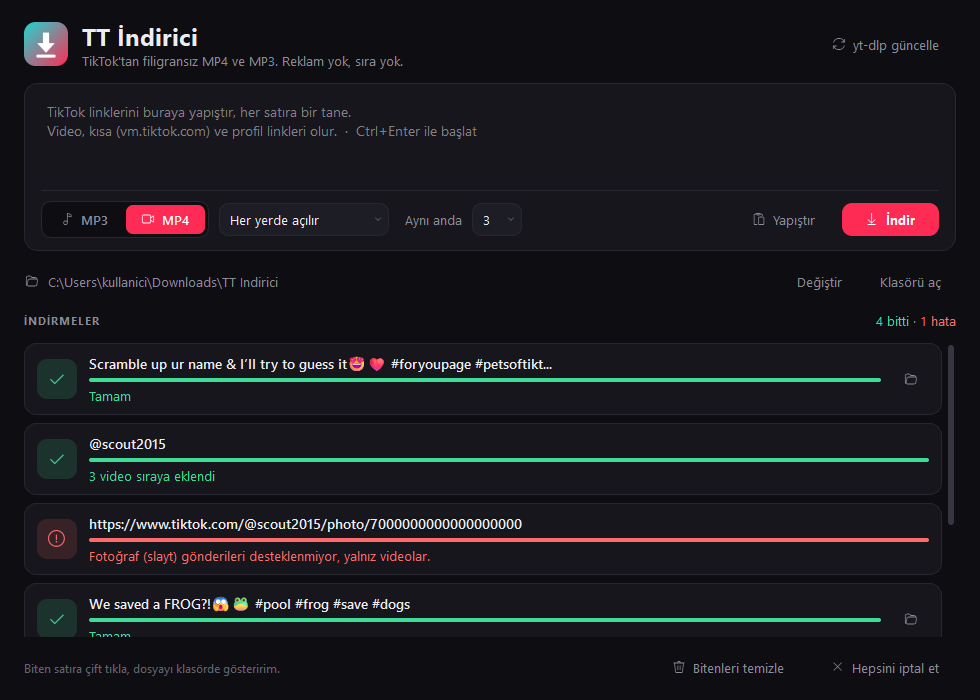
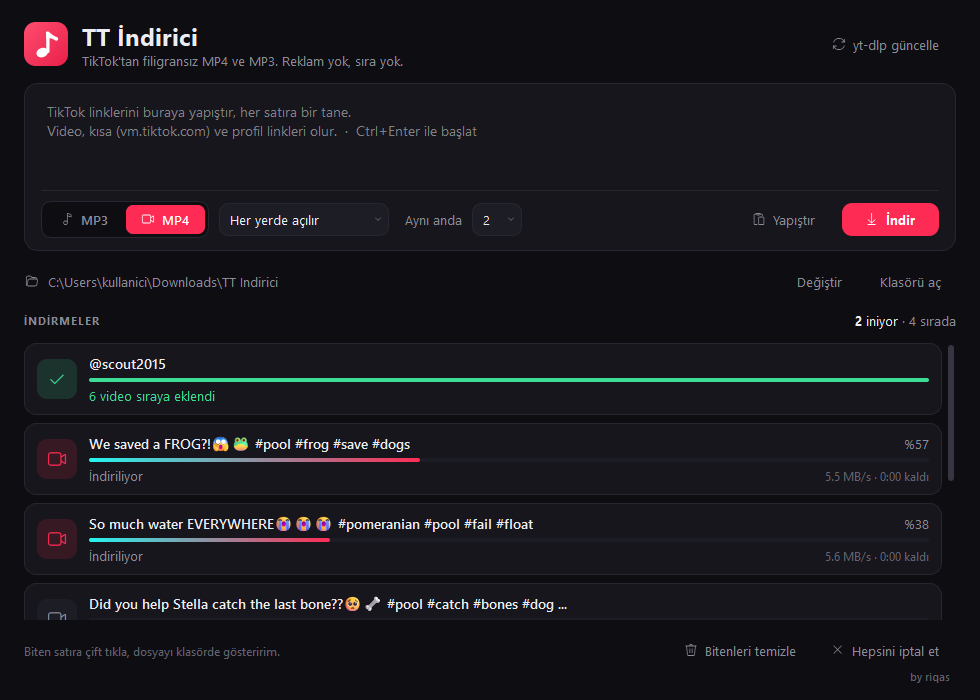
Yeni ikon, "by riqas", test turunda bulunan hataların düzeltmesi
- Logo: pembe zemin + beyaz nota
- Var olan dosya yeniden indirilmiyor (MP3'te üstüne yazıyordu), "Zaten var" doğru gösteriliyor
- İptal yarım dosya (.part, ara video, kapak) bırakmıyor; iptaller ayrı sayılıyor
- Sayaç "iniyor" ve "sırada"yı ayırıyor
- Embed/eski mobil linkler normal video linkine çevriliyor, aynı video tekilleştiriliyor
- TikTok dışı, etiket, müzik ve fotoğraf linkleri baştan nedeniyle reddediliyor
- Silinmiş video için yanıltıcı "IP engeli" mesajı düzeltildi
- Uygulama klasöründeki ffmpeg PATH'e bakmadan kullanılıyor

diff --git a/app.py b/app.py
@@ -9,15 +9,16 @@ import subprocess
 import sys
 import tempfile
 import threading
+import time
 import uuid
 from pathlib import Path
 
 from PyQt6.QtCore import (
-    QEasingCurve, QObject, QPropertyAnimation, QRectF, QRunnable, QSettings, Qt, QThreadPool, pyqtSignal,
+    QEasingCurve, QObject, QPointF, QPropertyAnimation, QRectF, QRunnable, QSettings, Qt, QThreadPool, pyqtSignal,
 )
 from PyQt6.QtGui import (
     QColor, QFont, QFontDatabase, QGuiApplication, QIcon, QKeySequence, QLinearGradient, QPainter,
-    QPainterPath, QPixmap, QShortcut,
+    QPainterPath, QPixmap, QShortcut, QTransform,
 )
 from PyQt6.QtWidgets import (
     QApplication, QButtonGroup, QComboBox, QFileDialog, QFrame, QHBoxLayout, QLabel, QMainWindow,
@@ -30,6 +31,7 @@ from yt_dlp.utils import DownloadCancelled
 
 APP_DIR = Path(__file__).resolve().parent
 DEFAULT_OUT = Path.home() / "Downloads" / "TT Indirici"
+LOCAL_FFMPEG = APP_DIR / "ffmpeg" / "bin" / "ffmpeg.exe"
 
 MP3_QUALITIES = ["320", "256", "192", "128"]
 # TikTok yüksek çözünürlüğü çoğu zaman yalnız H.265 veriyor; Windows'ta H.265 için ücretli codec eklentisi gerekebiliyor
@@ -58,7 +60,8 @@ FRIENDLY_ERRORS = (
     ("secondary user ID", "Profil açılamadı. Hesap gizli olabilir ya da TikTok erişimi kısıtladı."),
     ("private", "Bu gönderi gizli."),
     ("Video not available", "Video kaldırılmış ya da bölgende açık değil."),
-    ("status code 10204", "Video kaldırılmış ya da bölgende açık değil."),
+    # TikTok'un 10204 kodu: yt-dlp "IP engeli" diyor ama silinmiş/olmayan gönderide de bu dönüyor
+    ("IP address is blocked", "Video bulunamadı: silinmiş ya da bölgende kapalı."),
     # silinmiş videonun kısa linki ana sayfaya yönleniyor
     ("Unsupported URL: https://www.tiktok.com/?", "Link bir videoya gitmiyor, video silinmiş olabilir."),
     ("Unsupported URL", "Bu link tanınmadı. TikTok video ya da profil linki yapıştır."),
@@ -126,6 +129,9 @@ def build_opts(fmt, quality, out_dir):
         "noprogress": True,
         **NET_OPTS,
     }
+    # başlatıcının indirdiği ffmpeg: PATH'e güvenme (app.py doğrudan açılırsa PATH'te olmaz)
+    if LOCAL_FFMPEG.exists():
+        opts["ffmpeg_location"] = str(LOCAL_FFMPEG.parent)
     if fmt == "mp3":
         opts.update({
             # "audio" biçimi videodaki ses değil, şarkının ayrı kaydı (uzunluğu farklı olabiliyor):
@@ -166,7 +172,20 @@ class DownloadJob(QRunnable):
         self.fmt, self.quality, self.out_dir = fmt, quality, out_dir
         self.cancel, self.s = cancel, signals
         self.final_path = ""
+        self.video_id = ""
         self.phase = 0
+
+    def _remove_leftovers(self, since):
+        """İptalde yarım kalanları sil (.part, MP3'e çevrilmeyi bekleyen video, kapak resmi).
+        Dosya adında video id'si var; bu işten önce var olan dosyalara (ör. aynı videonun öbür biçimi) dokunma."""
+        if not self.video_id:
+            return
+        for p in Path(self.out_dir).glob(f"*[[]{self.video_id}[]]*"):
+            try:
+                if p.stat().st_mtime >= since - 1:
+                    p.unlink()
+            except OSError:
+                pass
 
     def _hook(self, d):
         if self.cancel.is_set():
@@ -208,18 +227,26 @@ class DownloadJob(QRunnable):
             "postprocessor_hooks": [self._pp_hook],
             "post_hooks": [lambda path: setattr(self, "final_path", path)],
         })
+        started = time.time()
         for attempt in range(1, MAX_ATTEMPTS + 1):
             self.s.status.emit(self.job_id, "Bağlanıyor" if attempt == 1 else f"Tekrar deneniyor ({attempt})")
             logger.last_error = ""
             try:
                 with yt_dlp.YoutubeDL(opts) as ydl:
-                    code = ydl.download([self.url])
-                if code == 0:
-                    msg = "Tamam" if self.phase else "Zaten var"
-                    self.s.done.emit(self.job_id, True, msg, self.final_path)
-                    return
-                err = logger.last_error
+                    info = ydl.extract_info(self.url, download=False)
+                    self.video_id = info.get("id", "")
+                    if info.get("title"):
+                        self.s.title.emit(self.job_id, info["title"])
+                    # yt-dlp MP3'te dosya varken videoyu yeniden indirip üstüne yazıyor: önce hedefe bak
+                    target = Path(ydl.prepare_filename(info)).with_suffix(f".{self.fmt}")
+                    if target.exists():
+                        self.s.done.emit(self.job_id, True, "Zaten var", str(target))
+                        return
+                    ydl.process_ie_result(info, download=True)
+                self.s.done.emit(self.job_id, True, "Tamam", self.final_path)
+                return
             except DownloadCancelled:
+                self._remove_leftovers(started)
                 self.s.done.emit(self.job_id, False, "İptal edildi", "")
                 return
             except Exception as e:  # noqa: BLE001 — her hatayı satırda göster, uygulamayı düşürme
@@ -259,21 +286,38 @@ class ProfileResolver(QRunnable):
                 if url:
                     entries.append((url, e.get("title") or url))
             if not entries:
-                self.s.done.emit(self.job_id, False, "Profilde video yok", "")
+                self.s.done.emit(self.job_id, False, "Bu sayfada video bulunamadı", "")
             else:
                 self.s.expanded.emit(self.job_id, entries)
         except Exception as e:  # noqa: BLE001
             self.s.done.emit(self.job_id, False, clean_error(logger.last_error or e), "")
 
 
+def is_tiktok(url):
+    return bool(re.match(r"https?://([\w-]+\.)*tiktokv?\.com/", url))
+
+
 def is_profile(url):
-    """Profil, etiket, müzik ve koleksiyon linkleri birden çok videoya açılır."""
-    return bool(re.search(r"tiktok\.com/(@[\w.-]+/?(?:[?#]|$)|@[\w.-]+/collection/|tag/|music/)", url))
+    """Profil ve koleksiyon linkleri birden çok videoya açılır."""
+    return bool(re.search(r"tiktok\.com/(@[\w.-]+/?(?:[?#]|$)|@[\w.-]+/collection/)", url))
 
 
-def is_photo(url):
-    """Fotoğraf (slayt) gönderileri: yt-dlp bunları desteklemiyor."""
-    return "/photo/" in url
+def unsupported(url):
+    """yt-dlp'nin şu an açamadığı TikTok sayfaları: neden açılmadığını hemen söyle."""
+    if not is_tiktok(url):
+        return "TikTok linki değil."
+    if "/photo/" in url:
+        return "Fotoğraf (slayt) gönderileri desteklenmiyor, yalnız videolar."
+    # etiket ve müzik sayfaları TikTok'un mobil uygulama API'sini istiyor, yt-dlp'de çalışmıyor (2026-10)
+    if re.search(r"tiktok\.com/(tag|music)/", url):
+        return "Etiket ve müzik sayfaları desteklenmiyor. Video ya da profil linki yapıştır."
+    return ""
+
+
+def canonical(url):
+    """Gömülü (embed) ve eski mobil linkleri normal video linkine çevir; yoksa genel çıkarıcıya düşüyorlar."""
+    m = re.search(r"tiktok\.com/(?:embed(?:/v2)?|v)/(\d{15,})", url)
+    return f"https://www.tiktok.com/@/video/{m.group(1)}" if m else url
 
 
 # ---------- görünüm ----------
@@ -289,6 +333,7 @@ QWidget#root, QWidget#list {{ background: {C['bg']}; }}
 QLabel#h1 {{ font-size: 18pt; font-weight: 700; }}
 QLabel#muted {{ color: {C['muted']}; }}
 QLabel#faint {{ color: {C['faint']}; font-size: 9pt; }}
+QLabel#credit {{ color: {C['faint']}; font-size: 8.5pt; }}
 QLabel#section {{ color: {C['muted']}; font-size: 8.5pt; font-weight: 700; letter-spacing: 1px; }}
 QLabel#empty {{ color: {C['muted']}; font-size: 10.5pt; }}
 QFrame#card {{ background: {C['surface']}; border: 1px solid {C['line']}; border-radius: 14px; }}
@@ -323,6 +368,7 @@ QProgressBar::chunk {{ background: qlineargradient(x1:0, y1:0, x2:1, y2:0, stop:
     border-radius: 2px; }}
 QProgressBar[state="done"]::chunk {{ background: {C['ok']}; }}
 QProgressBar[state="error"]::chunk {{ background: {C['err']}; }}
+QProgressBar[state="cancelled"]::chunk {{ background: {C['line2']}; }}
 QScrollArea {{ background: transparent; border: none; }}
 QScrollBar:vertical {{ background: transparent; width: 10px; margin: 2px; }}
 QScrollBar::handle:vertical {{ background: {C['line2']}; border-radius: 3px; min-height: 30px; }}
@@ -378,7 +424,7 @@ def tint(hex_color, alpha):
 
 
 def logo_pixmap(px):
-    """Turkuazdan pembeye yuvarlak kare + beyaz aşağı ok (pencere ve görev çubuğu ikonu)."""
+    """Pembe yuvarlak kare + kalın beyaz nota (pencere ve görev çubuğu ikonu)."""
     dpr = 2.0
     pm = QPixmap(int(px * dpr), int(px * dpr))
     pm.setDevicePixelRatio(dpr)
@@ -386,18 +432,28 @@ def logo_pixmap(px):
     p = QPainter(pm)
     p.setRenderHint(QPainter.RenderHint.Antialiasing)
     grad = QLinearGradient(0, 0, px, px)
-    grad.setColorAt(0, QColor("#1fd6d0"))
-    grad.setColorAt(1, QColor("#fe2c55"))
+    grad.setColorAt(0, QColor("#ff4d6f"))
+    grad.setColorAt(1, QColor("#e8204a"))
     p.setPen(Qt.PenStyle.NoPen)
     p.setBrush(grad)
     p.drawRoundedRect(QRectF(0, 0, px, px), px * 0.26, px * 0.26)
-    arrow = QPainterPath()
-    for x, y in ((0.43, 0.24), (0.57, 0.24), (0.57, 0.48), (0.70, 0.48), (0.50, 0.70), (0.30, 0.48), (0.43, 0.48)):
-        (arrow.lineTo if arrow.elementCount() else arrow.moveTo)(px * x, px * y)
-    arrow.closeSubpath()
+    note = QPainterPath()
+    note.setFillRule(Qt.FillRule.WindingFill)
+    head = QPainterPath()
+    head.addEllipse(QPointF(0, 0), px * 0.135, px * 0.105)
+    note.addPath(QTransform().translate(px * 0.415, px * 0.695).rotate(-22).map(head))
+    stem = px * 0.505
+    note.addRoundedRect(QRectF(stem, px * 0.22, px * 0.075, px * 0.48), px * 0.02, px * 0.02)
+    flag = QPainterPath()
+    flag.moveTo(stem, px * 0.22)
+    flag.cubicTo(px * 0.60, px * 0.22, px * 0.62, px * 0.30, px * 0.74, px * 0.34)
+    flag.cubicTo(px * 0.80, px * 0.36, px * 0.78, px * 0.42, px * 0.73, px * 0.43)
+    flag.cubicTo(px * 0.66, px * 0.38, px * 0.62, px * 0.37, stem + px * 0.07, px * 0.37)
+    flag.lineTo(stem, px * 0.37)
+    flag.closeSubpath()
+    note.addPath(flag)
     p.setBrush(QColor("white"))
-    p.drawPath(arrow)
-    p.drawRoundedRect(QRectF(px * 0.28, px * 0.74, px * 0.44, px * 0.07), px * 0.035, px * 0.035)
+    p.drawPath(note)
     p.end()
     return pm
 
@@ -482,11 +538,14 @@ class JobRow(QFrame):
 
     def _paint_tile(self):
         glyph = {"mp3": G_MUSIC, "mp4": G_VIDEO, "list": G_LIST}[self.kind]
-        color = {"queued": C["muted"], "active": C["accent"], "done": C["ok"], "error": C["err"]}[self.state]
+        color = {"queued": C["muted"], "active": C["accent"], "done": C["ok"], "error": C["err"],
+                 "cancelled": C["muted"]}[self.state]
         if self.state == "done":
             glyph = G_CHECK
         elif self.state == "error":
             glyph = G_ERROR
+        elif self.state == "cancelled":
+            glyph = G_CANCEL
         bg = C["surface2"] if self.state == "queued" else tint(color, 0.14)
         self.tile.setPixmap(glyph_pixmap(glyph, color, 40, bg=bg, radius=10))
 
@@ -514,7 +573,7 @@ class JobRow(QFrame):
         self.meta.setText(" · ".join(x for x in (speed, f"{eta} kaldı" if eta else "") if x))
 
     def finish(self, ok, msg, path=""):
-        self.state = "done" if ok else "error"
+        self.state = "done" if ok else "cancelled" if msg == "İptal edildi" else "error"
         self.path = path
         self.anim.stop()
         self.bar.setValue(1000 if ok else max(self.bar.value(), 1000))
@@ -525,7 +584,7 @@ class JobRow(QFrame):
         self.meta.setText("")
         self.status.setText(msg)
         self.status.setToolTip(msg)
-        self.status.setStyleSheet(f"color: {C['ok'] if ok else C['err']};")
+        self.status.setStyleSheet(f"color: {C[{'done': 'ok', 'error': 'err'}.get(self.state, 'muted')]};")
         self.btn.setVisible(ok and bool(path))
         self._paint_tile()
 
@@ -552,7 +611,7 @@ class Window(QMainWindow):
         self.signals.expanded.connect(self.on_expanded)
         self.rows = {}        # sürmekte olan job id → JobRow
         self.all_rows = []
-        self.n_ok = self.n_err = 0
+        self.n_ok = self.n_err = self.n_cancel = 0
         self.cancel = threading.Event()
         self.active = 0
         self._build()
@@ -689,7 +748,14 @@ class Window(QMainWindow):
         self.btn_cancel.clicked.connect(self.cancel_all)
         foot.addWidget(clear)
         foot.addWidget(self.btn_cancel)
-        lay.addLayout(foot)
+        bottom = QVBoxLayout()
+        bottom.setSpacing(2)
+        bottom.addLayout(foot)
+        credit = QLabel("by riqas", objectName="credit")
+        credit.setAlignment(Qt.AlignmentFlag.AlignRight)
+        credit.setContentsMargins(0, 0, 6, 0)
+        bottom.addWidget(credit)
+        lay.addLayout(bottom)
 
         self.setCentralWidget(root)
         self.seg.buttonClicked.connect(lambda _: self._format_changed())
@@ -745,11 +811,16 @@ class Window(QMainWindow):
         self.settings.setValue("fmt", self.fmt())
         self.settings.setValue("quality", self.quality.currentText())
         self.settings.setValue("parallel", int(self.parallel.currentText()))
-        for u in dict.fromkeys(urls):
-            if is_photo(u):
+        # aynı video farklı link biçimleriyle gelebilir; iki iş aynı dosyaya yazmasın diye video id'sine göre tekilleştir
+        unique = {}
+        for u in map(canonical, urls):
+            m = re.search(r"/video/(\d+)", u)
+            unique.setdefault(m.group(1) if m else u, u)
+        for u in unique.values():
+            if reason := unsupported(u):
                 job_id = self.add_row(u)
                 self.active += 1
-                self.on_done(job_id, False, "Fotoğraf (slayt) gönderileri desteklenmiyor, yalnız videolar.", "")
+                self.on_done(job_id, False, reason, "")
             elif is_profile(u):
                 job_id = self.add_row(u, "list")
                 self.on_status(job_id, "Profil açılıyor")
@@ -792,7 +863,7 @@ class Window(QMainWindow):
             row.deleteLater()
         self.all_rows.clear()
         self.rows.clear()
-        self.n_ok = self.n_err = 0
+        self.n_ok = self.n_err = self.n_cancel = 0
         self.empty.show()
         self.refresh_summary()
 
@@ -803,7 +874,10 @@ class Window(QMainWindow):
 
     def on_status(self, job_id, text):
         if row := self.rows.get(job_id):
+            was = row.state
             row.set_status(text)
+            if row.state != was:
+                self.refresh_summary()
 
     def on_progress(self, job_id, pct, speed, eta):
         if row := self.rows.get(job_id):
@@ -817,8 +891,12 @@ class Window(QMainWindow):
         row.finish(ok, msg, path)
         if ok:
             self.n_ok += 1
+        elif row.state == "cancelled":
+            self.n_cancel += 1
         else:
             self.n_err += 1
+        if self.active == 0 and self.cancel.is_set():
+            self.hint.setText("İptal edildi.")
         self.refresh_summary()
 
     def on_expanded(self, job_id, entries):
@@ -835,11 +913,18 @@ class Window(QMainWindow):
     def refresh_summary(self):
         parts = []
         if self.active:
-            parts.append(f"<span style='color:{C['text']}'><b>{self.active}</b> sürüyor</span>")
+            # paralel sınırı yüzünden bir kısmı sırada bekliyor: ikisini ayrı göster
+            queued = sum(1 for r in self.rows.values() if r.state == "queued")
+            if self.active - queued:
+                parts.append(f"<span style='color:{C['text']}'><b>{self.active - queued}</b> iniyor</span>")
+            if queued:
+                parts.append(f"<span style='color:{C['muted']}'>{queued} sırada</span>")
         if self.n_ok:
             parts.append(f"<span style='color:{C['ok']}'>{self.n_ok} bitti</span>")
         if self.n_err:
             parts.append(f"<span style='color:{C['err']}'>{self.n_err} hata</span>")
+        if self.n_cancel:
+            parts.append(f"<span style='color:{C['muted']}'>{self.n_cancel} iptal</span>")
         self.summary.setText("  ·  ".join(parts) or "Hazır")
 
     # ---------- yardımcılar ----------

diff --git a/README.md b/README.md
@@ -1,6 +1,9 @@
+<img src="docs/logo.png" width="64" align="left" alt="">
+
 # TT İndirici
 
 TikTok'tan doğrudan **filigransız MP4** ve **MP3** indiren, Windows için sade bir masaüstü uygulaması.
+<br clear="left">
 
 ![TT İndirici](docs/ekran.png)
 
@@ -9,17 +12,20 @@ doğrudan indirir, MP3'e çevirme işini de senin bilgisayarında ffmpeg yapar. 
 
 ## Özellikler
 - Filigransız video (TikTok logosu ve kullanıcı adı yazısı olmadan)
-- Birden çok link aynı anda; kısa linkler (`vm.tiktok.com`, `vt.tiktok.com`) çalışır
-- Profil, etiket (`/tag/`) ve müzik (`/music/`) linkleri tek tek videolara açılır
-- Aynı anda 1–6 indirme
+- Birden çok link aynı anda; tarayıcıdan, telefondan paylaşılan, kısa (`vm.tiktok.com`) ve gömülü (embed) linkler çalışır.
+  Aynı video iki kez yapıştırılırsa bir kez iner.
+- Profil linki (`tiktok.com/@kullanıcı`) profildeki videolara tek tek açılır
+- Aynı anda 1–6 indirme; daha önce indirilen dosya yeniden indirilmez
 - MP4 iki seçenekle:
   - **Her yerde açılır:** H.264, her oynatıcıda, telefonda ve düzenleme programında açılır
   - **En yüksek çözünürlük:** TikTok yüksek çözünürlüğü çoğu zaman yalnız H.265 olarak veriyor; Windows'ta
     oynatmak için Microsoft Store'daki HEVC eklentisi gerekebilir
 - MP3: 320 / 256 / 192 / 128 kbps, videoda duyduğun ses; kapak resmi ve etiketler dosyaya gömülür
-- İptal, kaldığı yerden yeniden deneme, `yt-dlp güncelle` düğmesi
+- İptal (yarım dosya bırakmaz), bağlantı koparsa otomatik yeniden deneme, `yt-dlp güncelle` düğmesi
+- GoodbyeDPI açıkken de çalışır
 
-Desteklenmeyen: fotoğraf (slayt) gönderileri, gizli hesaplar.
+Desteklenmeyen: fotoğraf (slayt) gönderileri, etiket (`/tag/`) ve müzik (`/music/`) sayfaları, gizli hesaplar.
+Uygulama bunları açılmadan önce tanır ve nedenini yazar.
 
 ## Kurulum ve kullanım
 1. **[TT-Indirici.zip indir](../../releases/latest/download/TT-Indirici.zip)** (her zaman son sürüm) ve zip'i bir klasöre aç.
